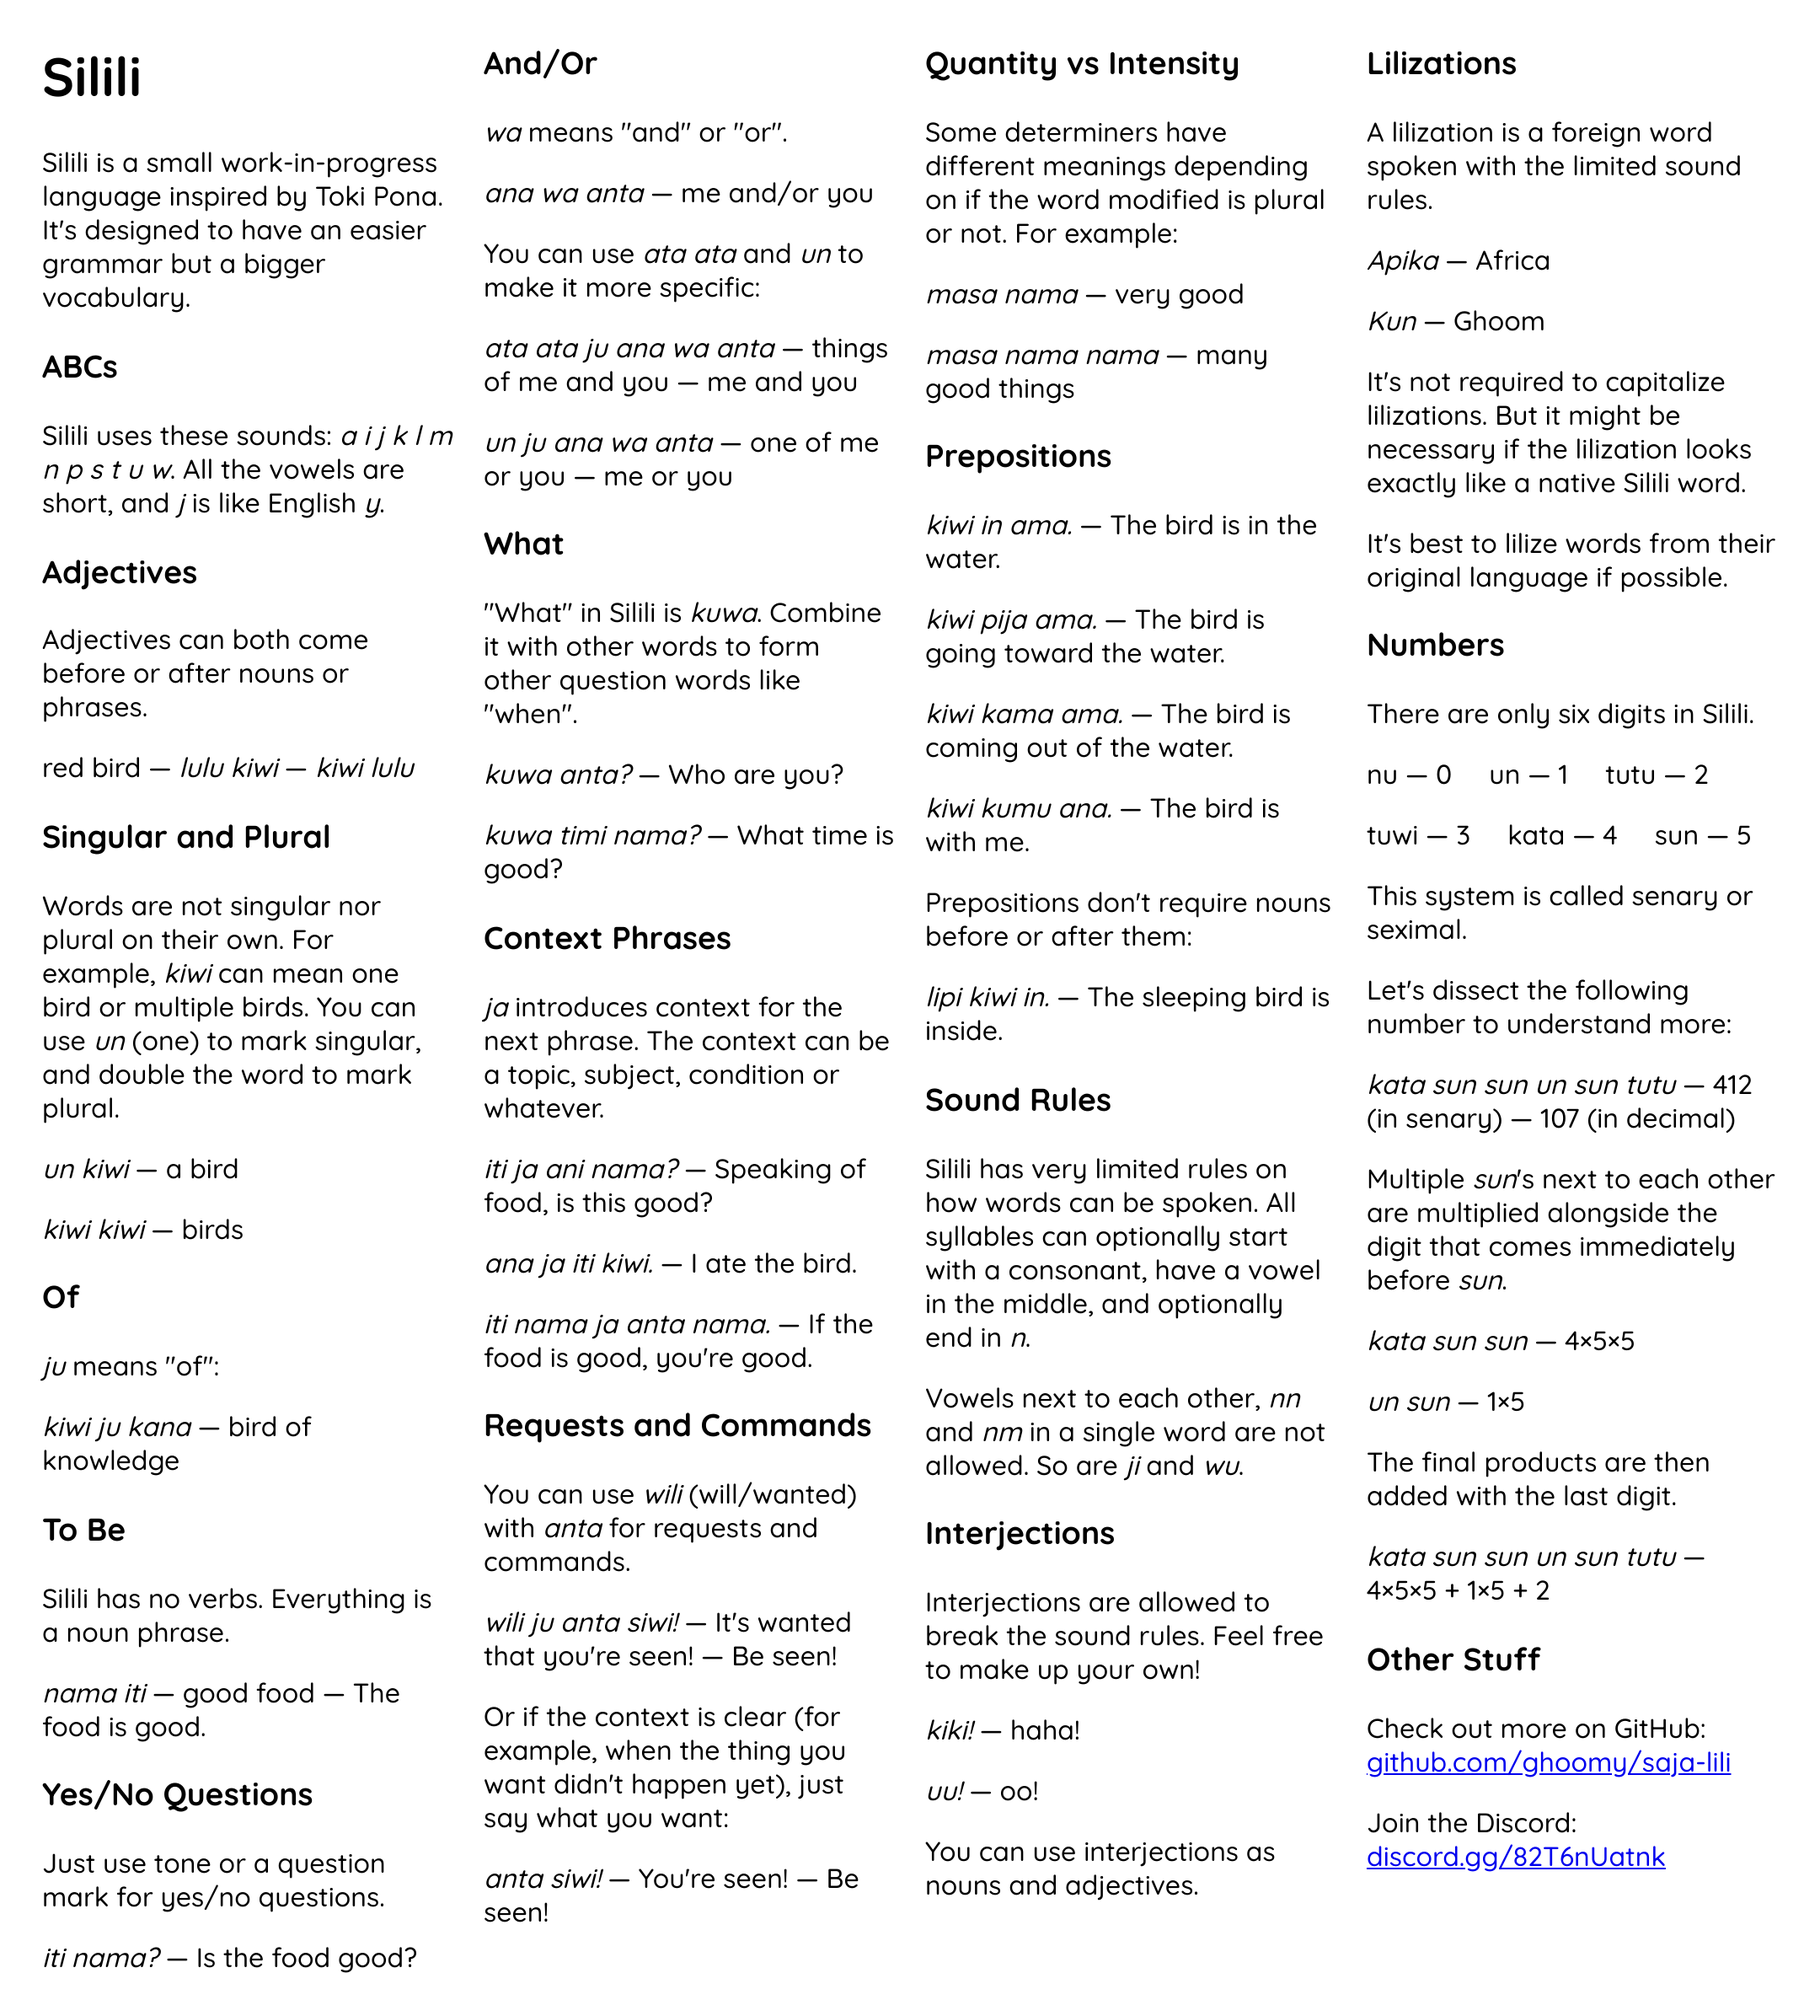
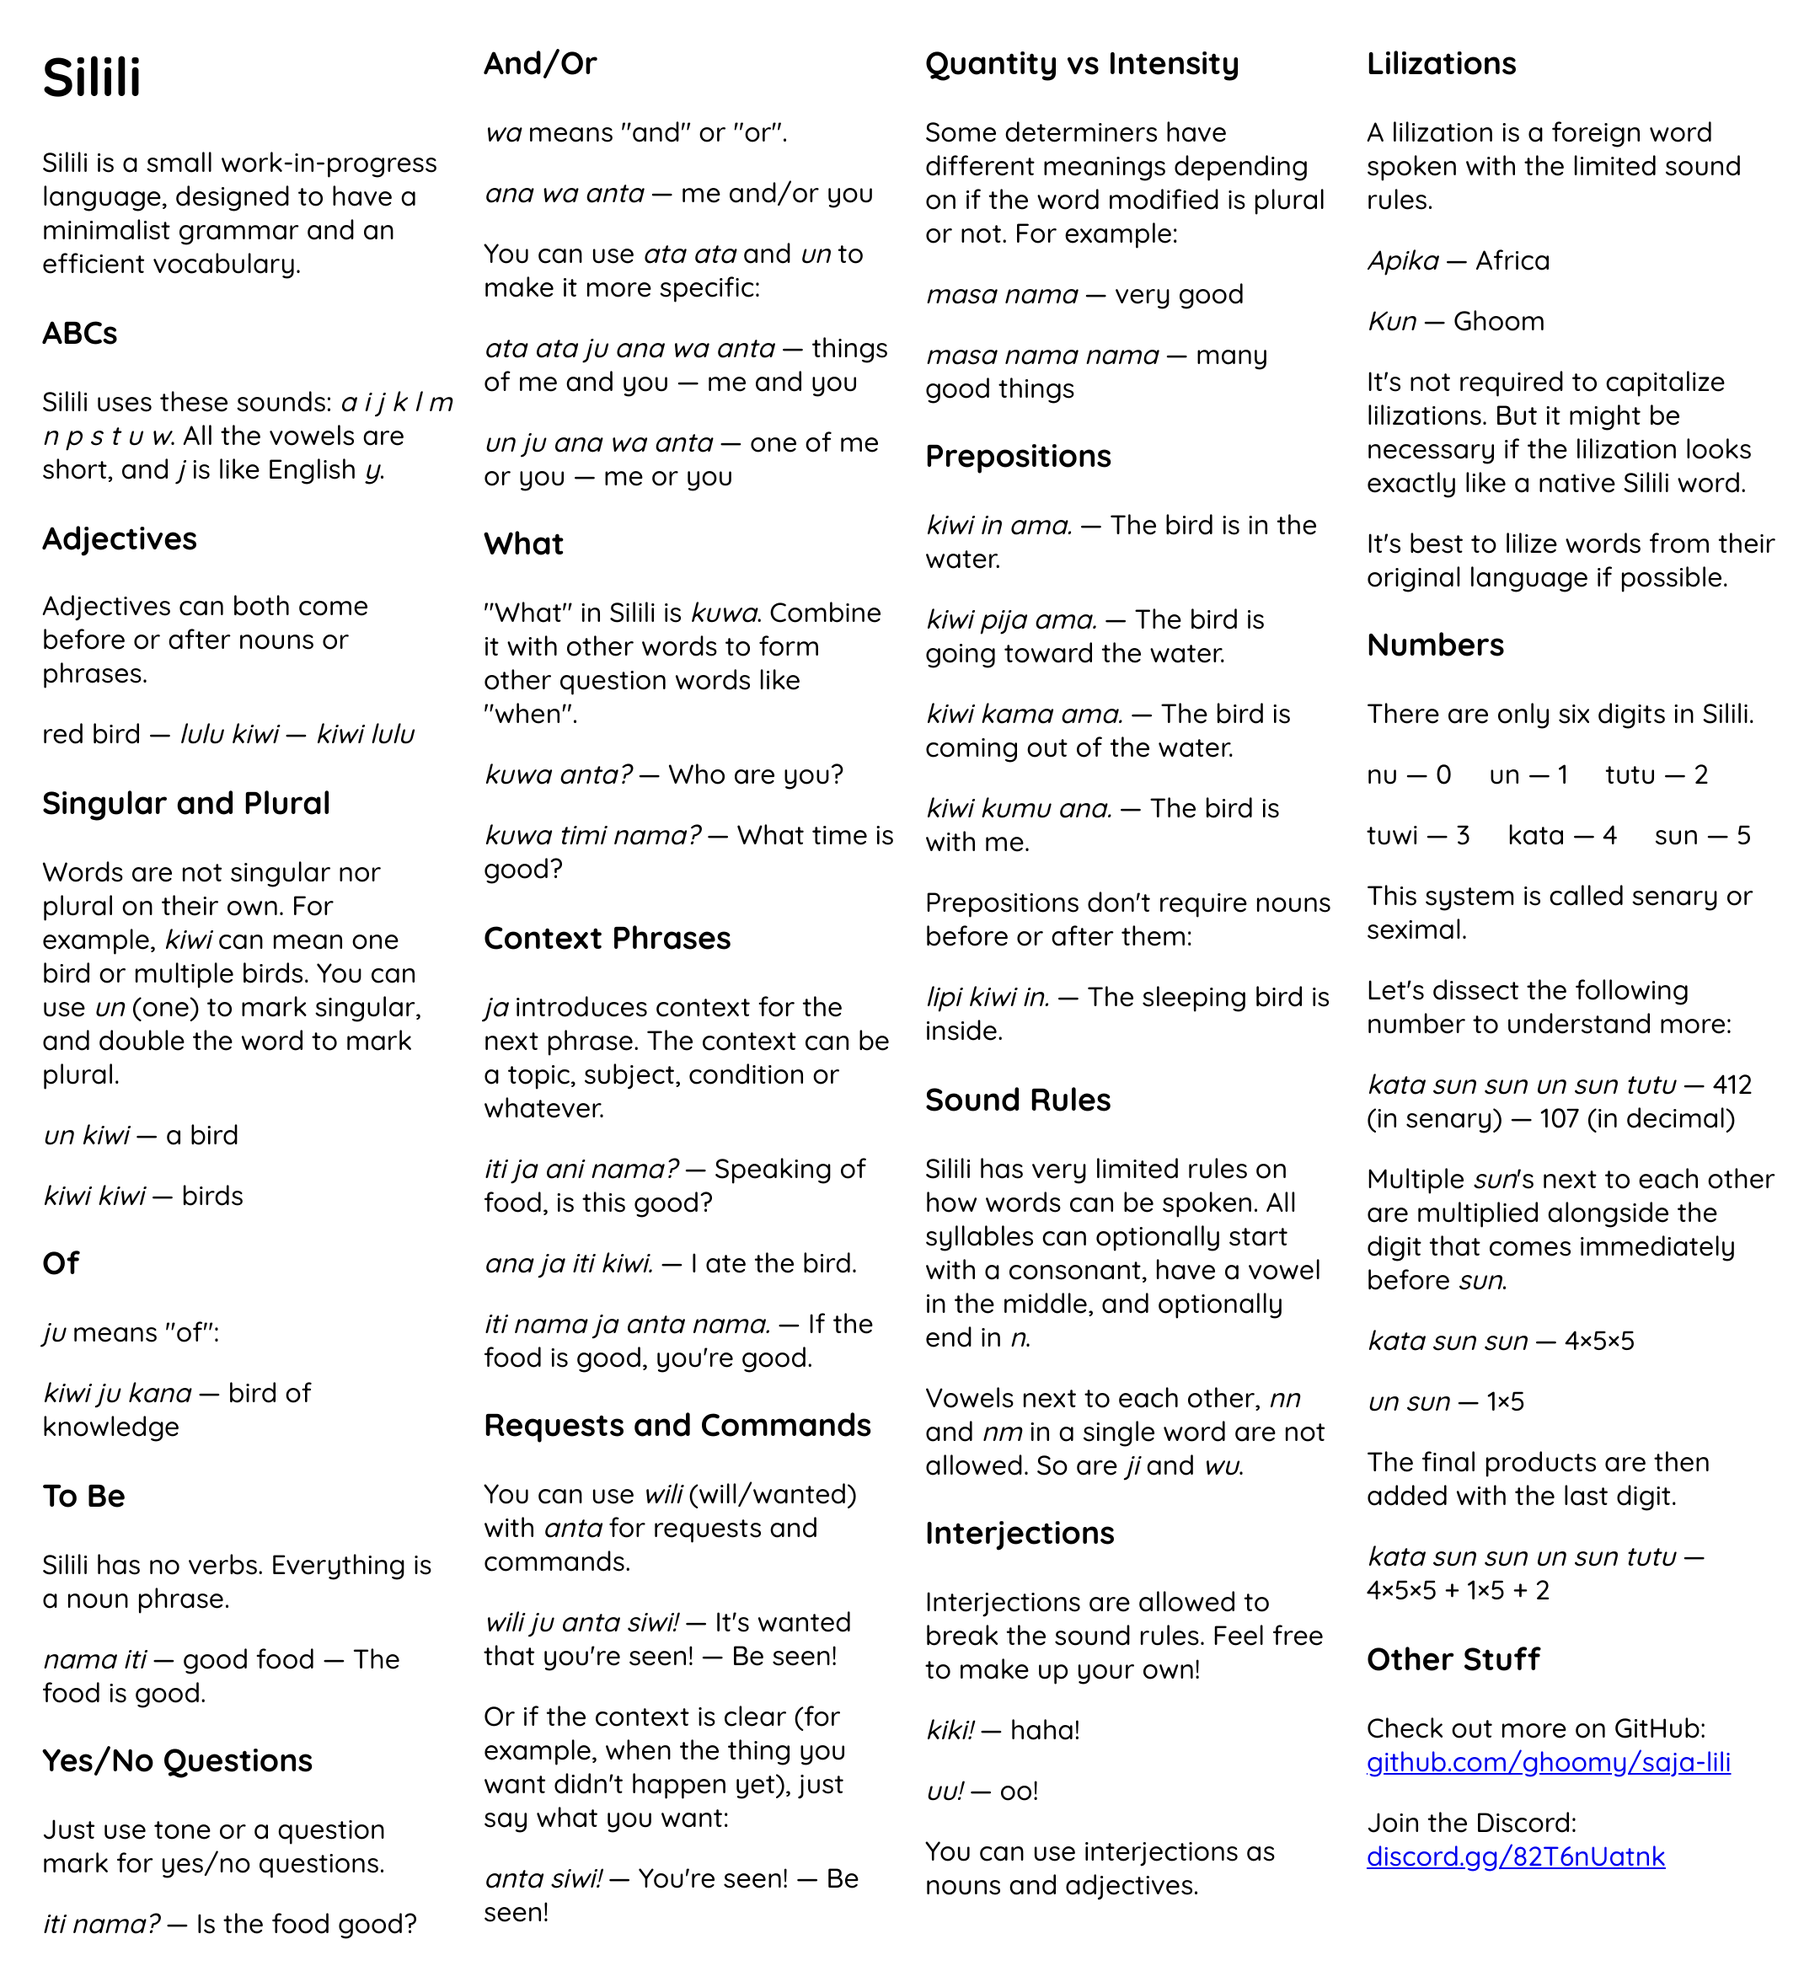
...

diff --git a/README.md b/README.md
@@ -14,7 +14,7 @@ td {vertical-align: top;}
 
 # Silili
 
-Silili is a small work-in-progress language inspired by Toki Pona. It's designed to have an easier grammar but a bigger vocabulary.
+Silili is a small work-in-progress language, designed to have a minimalist grammar and an efficient vocabulary.
 
 ### ABCs
 
